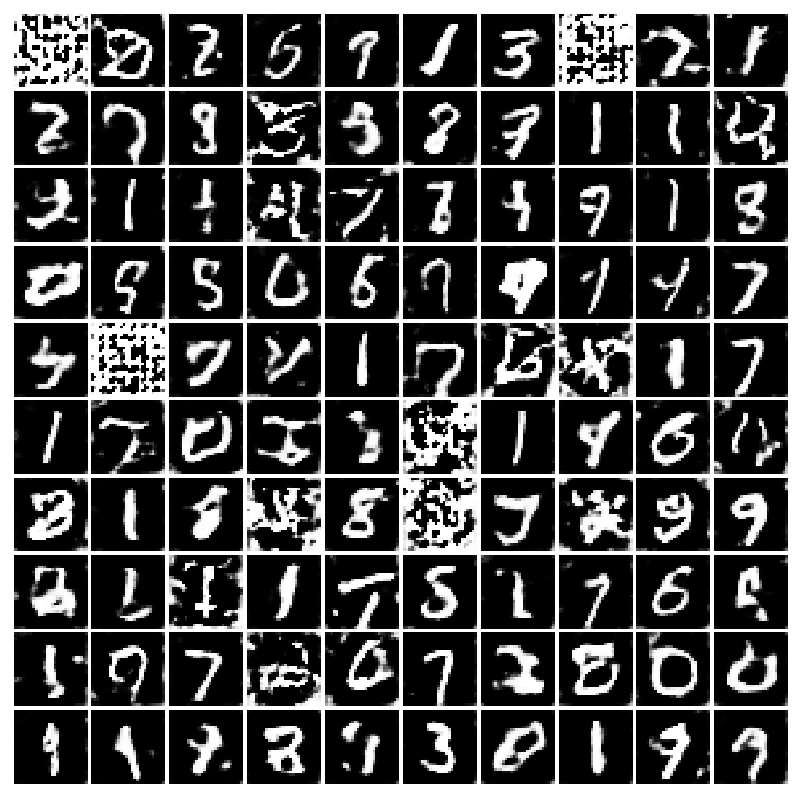
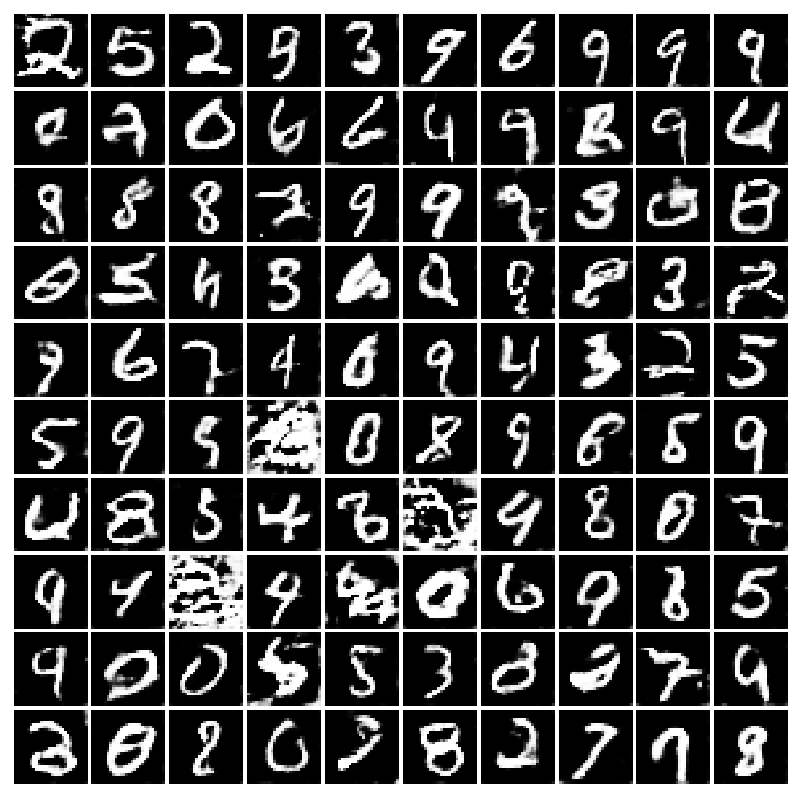
parameters tuned

diff --git a/GANs-MNIST.py b/GANs-MNIST.py
@@ -6,7 +6,7 @@ from CapsDiscriminator import CapsDiscriminatorMNIST
 from metrics import get_inception_score
 
 batch_size = 128
-epochs = 10
+epochs = 25
 save_images = True
 train_data, test_data = get_mnist_data(batch_size=batch_size)
 
@@ -19,7 +19,17 @@ D = ConvDiscriminatorMNIST()
 #CapsGAN -> G: Conv D: Caps
 G = ConvGeneratorMNIST()
 # D = CapsDiscriminatorMNIST(input_size=[1, 28, 28], classes=1, routings=3)
-D = CapsDiscriminatorMNIST(input_size=[1, 28, 28], classes=1, routings=3, d=128, num_dims=4, num_maps=16)
-
-train_gan(G,D, train_data, epochs, batch_size, save_gen_images=save_images, filename_prefix="ConvCaps/train")
-print("score:", get_inception_score(G))
+D = CapsDiscriminatorMNIST(input_size=[1, 28, 28], classes=1, routings=3, d=128, num_dims=8, num_maps=32)
+train_gan(
+	generator=G,
+	discriminator=D,
+	image_loader=train_data,
+	num_epochs=epochs,
+	batch_size=batch_size,
+	cuda=True,
+	g_lr=1e-3,
+	d_lr=0.0002, 
+	filename_prefix="ConvCaps/train",
+)
+# train_gan(G,D, train_data, epochs, batch_size, save_gen_images=save_images, filename_prefix="ConvCaps/train")
+# print("score:", get_inception_score(G))
